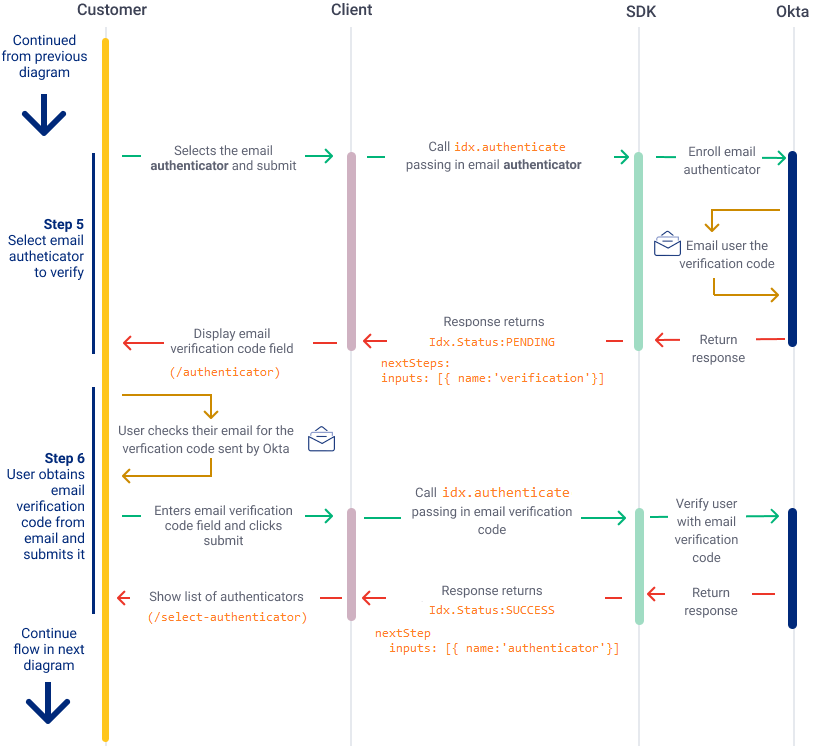
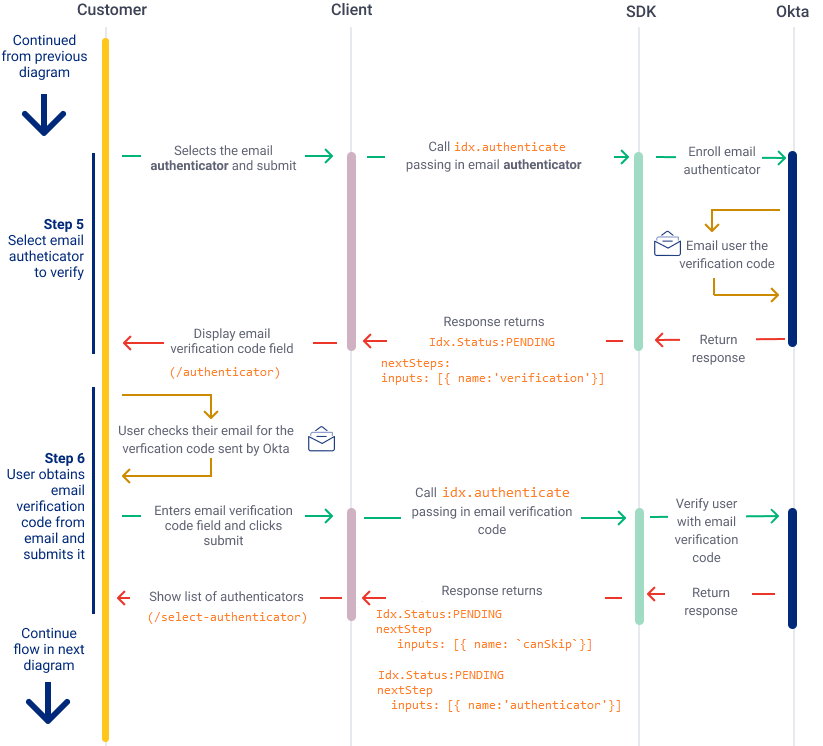
Updated images and integration steps

Changed region(s): [[0.4557, 0.8016, 0.7594, 0.9558]]

diff --git a/packages/@okta/vuepress-site/docs/guides/oie-embedded-sdk-use-cases/oie-embedded-sdk-use-case-self-reg/nodejs/integrationsteps.md b/packages/@okta/vuepress-site/docs/guides/oie-embedded-sdk-use-cases/oie-embedded-sdk-use-case-self-reg/nodejs/integrationsteps.md
@@ -1,12 +1,11 @@
 ### Step 1: Create a sign-up link for new users
 
-The self-registration flow begins when the user clicks the **Sign up** link. On the sign-in page, create a **Sign up** link that links to the create account page you create in the next step.
+The self-registration flow begins when the user clicks a **Sign up** link. On the sign-in page, create a **Sign up** link that links to the create account page you create in the next step,  as shown in the following example.
 
 
 <div class="common-image-format">
 
-![Sign up](/img/oie-embedded-sdk/oie-embedded-sdk-use-case-simple-self-serv-screen-sign-up.png
- "Sign up")
+![Displays a sign-up link screenshot that directs to a sign-up page. ](/img/oie-embedded-sdk/oie-embedded-sdk-use-case-simple-self-serv-screen-sign-up.png)
 
 </div>
 
@@ -16,16 +15,7 @@ The self-registration flow begins when the user clicks the **Sign up** link. On 
 
 The next step is to enter basic information (for example, email, first, and last name). Create a page that accepts this information. The following shows an example of a create account page.
 
-<div class="common-image-format">
-
-![Create user](/img/oie-embedded-sdk/oie-embedded-sdk-use-case-simple-self-serv-screen-create.png
- "Create user")
-
-</div>
-
-### Step 3: Call idx.register to register the new user
-
-When the user clicks **Register**, pass the user profile information captured from the Create account page into the `idx.register` method, as shown in the `register.js` page of the SDK sample application
+When the user clicks **Register**, pass the user profile data captured from the Create account page into the `idx.register` method, as shown in the `register.js` page of the SDK sample application:
 
 ```JavaScript
 router.post('/register', async (req, res, next) => {
@@ -40,9 +30,7 @@ router.post('/register', async (req, res, next) => {
 });
 ```
 
-### Step 4: Handle the response from idx.register calls
-
-If the org's application is properly configured with multiple factors, `idx.register` should return a response with `Idx.Status:PENDING`. This status indicates that there is a required authenticator that needs to be verified. If you completed the steps properly in [Set up your Okta org (for multifactor use cases)](/docs/guides/oie-embedded-common-org-setup/aspnet/main/#set-up-your-okta-org-for-multi-factor-use-cases), the authenticator is the **password** factor. The next steps, as shown in the SDK sample application, are handled by the `handleTransaction.js` page for the subsequent flows.
+If the org's application is properly configured with multiple factors, `idx.register` returns a response with `Idx.Status:PENDING` and a `nextStep` field requiring an authenticator that needs to be verified. If you completed the steps properly in [Set up your Okta org (for multifactor use cases)](/docs/guides/oie-embedded-common-org-setup/aspnet/main/#set-up-your-okta-org-for-multi-factor-use-cases), the authenticator is the **password** factor. The next steps, as shown in the SDK sample application, are handled by the `handleTransaction.js` page for the subsequent flows.
 
 ```JavaScript
 // registration
@@ -61,39 +49,33 @@ If the org's application is properly configured with multiple factors, `idx.regi
       return true;
 ```
 
-### Step 5: User enters password and is verified
+### Step 3: User enters password authenticator and password
 
-After the user enters the password value, and `idx.register` is called with this value, the final response after verifying the password includes the status `Idx.Status:PENDING` to select another authenticator. See [idx.register](https://github.com/okta/okta-auth-js/blob/master/docs/idx.md#idxregister) for more details on the the self-registration flow.
+After the user enters the password authenticator value, and `idx.register` is called with this value, the response returns a status of `Idx.Status:PENDING` and a `nextStep` field requiring a password value. The user is directed to a page to enroll a password value, as shown in the SDK sample application route to `/enroll-or-reset-password-authenticator`.
 
-### Step 6: User selects email authenticator
+### Step 4: User submits password
+
+After the user submits a password, call `idx.register` passing in this value for the user. The response returns a status of `Idx.Status:PENDING` and a `nextStep` field requiring inputs for additional authenticators. The user is directed to a page to select authenticators, as shown in the SDK sample application route to `/select-authenticator`.
+
+See [idx.register](https://github.com/okta/okta-auth-js/blob/master/docs/idx.md#idxregister) for more details on the self-registration flow.
+
+### Step 5: User selects email authenticator
 
 In this use case, the user selects the **Email** factor as the authenticator to verify. Pass this user-selected authenticator to `idx.authenticate`.
 
- If the call is successful, the method should return an `Idx.Status` of `PENDING`, which indicates that the SDK is ready for the verification code. The next step is to redirect the user to the email verification code page.
+ If the call is successful, the method returns a status of `Idx.Status:PENDING` and a `nextStep` field requiring verification, which indicates that the SDK is ready for the email verification code. The next step is to redirect the user to the email verification code page, as shown in the SDK sample application route to `/authenticator`.
 
-<div class="common-image-format">
+### Step 6: User submits email verification code
 
-![Displays the Java SDK's Verify Code form for the email authenticator](/img/oie-embedded-sdk/oie-embedded-sdk-use-case-simple-self-serv-screen-verify-email-code-java.png)
-
-</div>
-
-### Step 7: User submits email verification code
-
-The next step is to call `idx.authenticate` again passing in the verification code. In the email verification use case, the code passed into the method will be the code found in the verification email.
+The next step is to call `idx.authenticate` again passing in the verification code. In the email verification use case, the code passed into the method is the code found in the verification email.
 
 Based on the configuration described in [Set up your Okta org for multifactor use cases](/docs/guides/oie-embedded-common-org-setup/java/main/#set-up-your-okta-org-for-multifactor-use-cases), the app in this use case is set up to require one possession factor (either email or phone). After the email factor is verified, the phone factor becomes optional. In this step, the `nextStep` field can include `canSkip` for the phone authenticator. You can build a **Skip** button in your form to allow the user to skip the optional phone factor.
 
 If the user decides to skip the optional factor, they are considered signed in since they have already verified the required factors. See [Step 8, Option 1: Skip phone factor](#step-8-option-1-skip-phone-factor) for the skip authenticator flow. If the user decides to select the optional factor, see [Step 8, Option 2: User selects phone authenticator](#step-8-option-2-user-selects-phone-authenticator) for the optional phone authenticator flow.
 
-<div class="common-image-format">
+### Step 7, Option 1: Skip phone factor
 
-![Displays the Node.js SDK's phone authenticator enrollment form with Skip button](/img/oie-embedded-sdk/oie-embedded-sdk-use-case-simple-self-serv-screen-auth-list-phone-java.png)
-
-</div>
-
-### Step 8, Option 1: Skip phone factor
-
-If the user decides to skip the phone factor enrollment, make a call `idx.register` passing in the value `skip=true`. This method skips the authenticator enrollment, as shown on the `Authenticator.js` page from the SDK sample application.
+If the user decides to skip the phone factor enrollment, make a call to `idx.register` passing in the value `skip=true`. This method skips the authenticator enrollment, as shown on the `Authenticator.js` page from the SDK sample application.
 
 ```JavaScript
 router.post('/select-authenticator/skip', async (req, res, next) => {
@@ -104,42 +86,25 @@ router.post('/select-authenticator/skip', async (req, res, next) => {
 });
 ```
 
-If the request to skip the optional authenticator is successful, the SDK returns `Idx.SUCCESS` and the user is successfully signed in.
+If the request to skip the optional authenticator is successful, the SDK returns `Idx.SUCCESS` and tokens. The user is successfully signed in.
 
-### Step 8, Option 2: User selects phone authenticator
-In this use case option, the user selects the optional **Phone** factor as the authenticator to verify. Pass this selected authenticator to `idx.authenticate`.
+### Step 7, Option 2: User selects phone authenticator
 
-The response from this request is `Idx.Status:PENDING` and a `nextStep` of requiring the phone number. In the case of the phone authenticator, the user needs to specify a phone number, and whether they want to use SMS or voice as the verification method.
+After the user selects the phone authenticator value, and `idx.register` is called with this value, the response returns a status of `Idx.Status:PENDING` and a `nextStep` field requiring phone registration data, including phone number and verification method: SMS or voice. The user is directed to a page to enroll phone data, as shown in the SDK sample application route to `/phone-enrollment-data`.
 
-### Step 9, Option 2: User enters phone number and selects SMS verify method
-
-You need to build a form to capture the user's phone number as well as a subsequent form for the user to select their phone verification method (either SMS or voice).
-
-<div class="common-image-format">
-
-![Displays the Auth JS SDK's enroll phone number authenticator form](/img/oie-embedded-sdk/oie-embedded-sdk-use-case-simple-self-serv-screen-verify-phone-num-java.png)
-
-</div>
-
-> **Note:** The Auth JS SDK requires the following phone number format: `{+}{country-code}{area-code}{number}`. For example, `+15556667777`.
-
-<div class="common-image-format">
-
-![Displays the Auth JS SDK's phone factor (SMS or voice) form](/img/oie-embedded-sdk/oie-embedded-sdk-use-case-simple-self-serv-screen-verify-phone-mode-java.png)
-
-</div>
+### Step 8, Option 2: User enters phone number and selects SMS verify method
 
 When the user enters their phone number and selects SMS to receive the verification code, capture this information and send it to`idx.authenticate`.
 
-The Auth JS SDK sends the phone authenticator data to Okta. Otka processes the request and sends an SMS code to the specified phone number. After the SMS code is sent, Okta sends a response to the SDK, which returns `Idx.Status:PENDING` to your app. This status indicates that the user needs to provide the verification code for the phone authenticator.
+The Auth JS SDK sends the phone authenticator data to Okta. Otka processes the request and sends an SMS code to the specified phone number. After the SMS code is sent, Okta sends a response to the SDK, which returns `Idx.Status:PENDING` and the `nextStep` field requiring verification. This status indicates that the user needs to provide the verification code for the phone authenticator, as shown in the SDK sample application route to `/authenticator`.
 
-You need to build a form to capture the user's SMS verification code.
+> **Note:** The Auth JS SDK requires the following phone number format: `{+}{country-code}{area-code}{number}`. For example, `+15556667777`.
 
-### Step 10, Option 2: User submits SMS verification code
+### Step 19, Option 2: User submits SMS verification code
 
 The user receives the verification code as an SMS on their phone and submits it in the verify code form. Send this code to `idx.authenticate`.
 
-If the request to verify the code is successful, the SDK returns a status of `Idx.Status:SUCCESS` and saves tokens to storage, as shown on the `handleTransaction` page of the SDK sample application. 
+If the request to verify the code is successful, the SDK returns a status of `Idx.Status:SUCCESS` and saves tokens to storage, as shown on the `handleTransaction.js` page of the SDK sample application.
 
 ```JavaScript
 case IdxStatus.SUCCESS:
